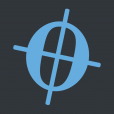
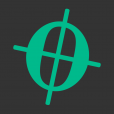
emerald and amber color scheme

Changed region(s): [[0.1053, 0.0526, 0.8947, 0.9211]]

diff --git a/css/ncoda/variables.less b/css/ncoda/variables.less
@@ -67,11 +67,13 @@
 // Brand Colors
 // -----------------------------------------------------------------------------
 
-@global-primary:	    #66ADDF;
-@global-secondary:      #FBC84E; //previously lighten(@global-primary, 15%)
-@global-success:	    #5eb95e;
-@global-warning:	    #F37B1D;
-@global-danger:		    #dd514c;
+//TODO: figure out why am-btn-link (wrench icon and similar) don't use these color definitions
+
+@global-primary:	    #00ba8c;
+@global-secondary:	    #fbc84e; //previously lighten(@global-primary, 15%)
+@global-success:	    #00d500;
+@global-warning:        #f0720b;
+@global-danger:		    #ff0900;
 @global-info:           @global-secondary;
 
 
